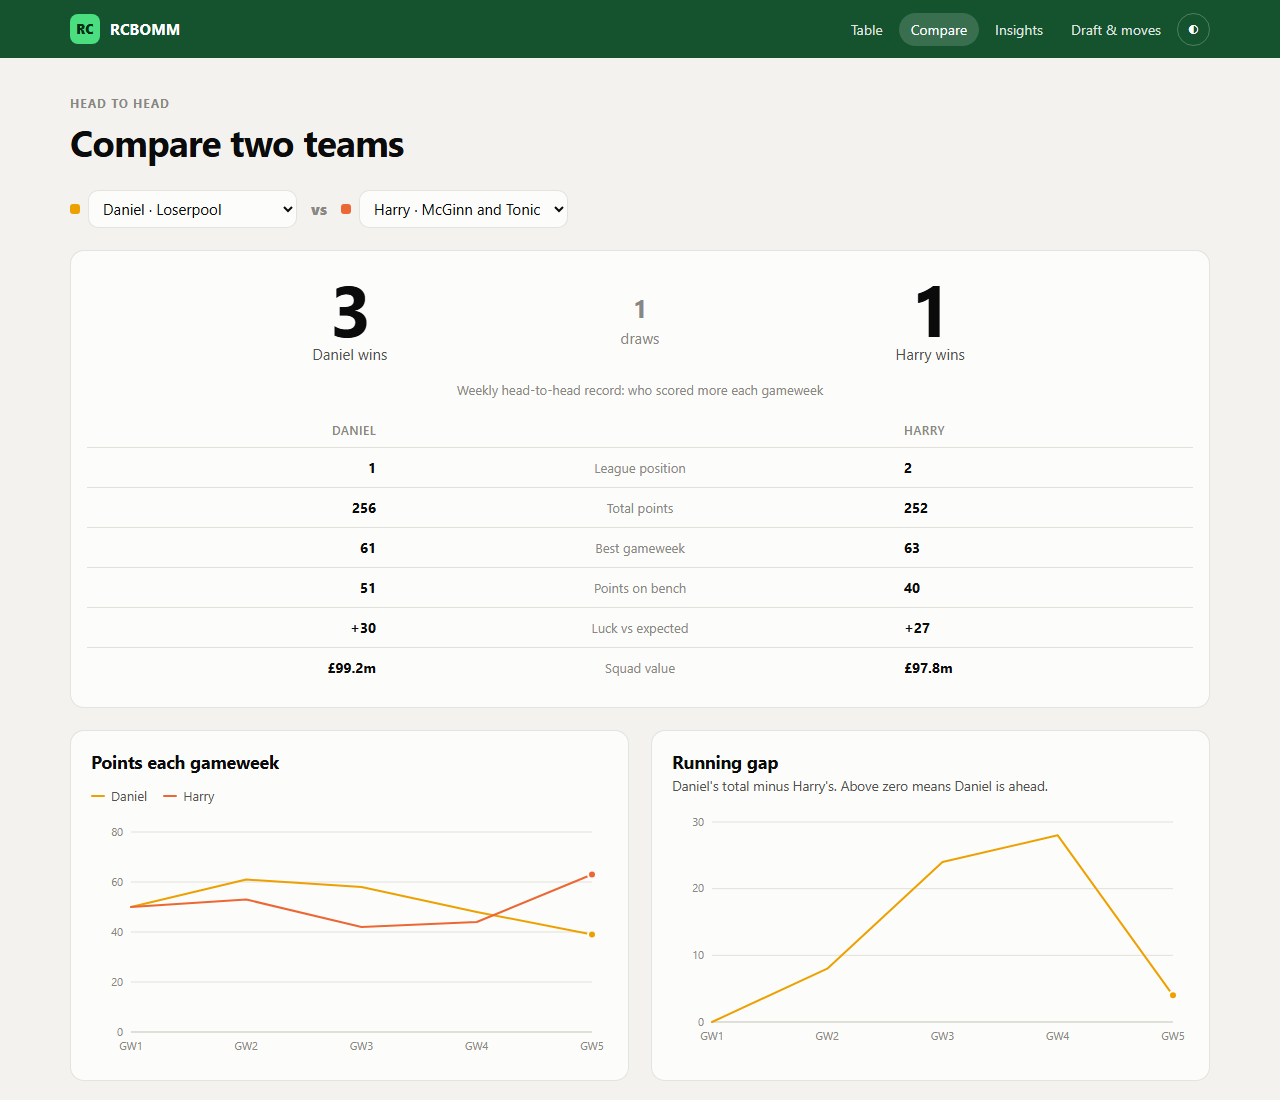
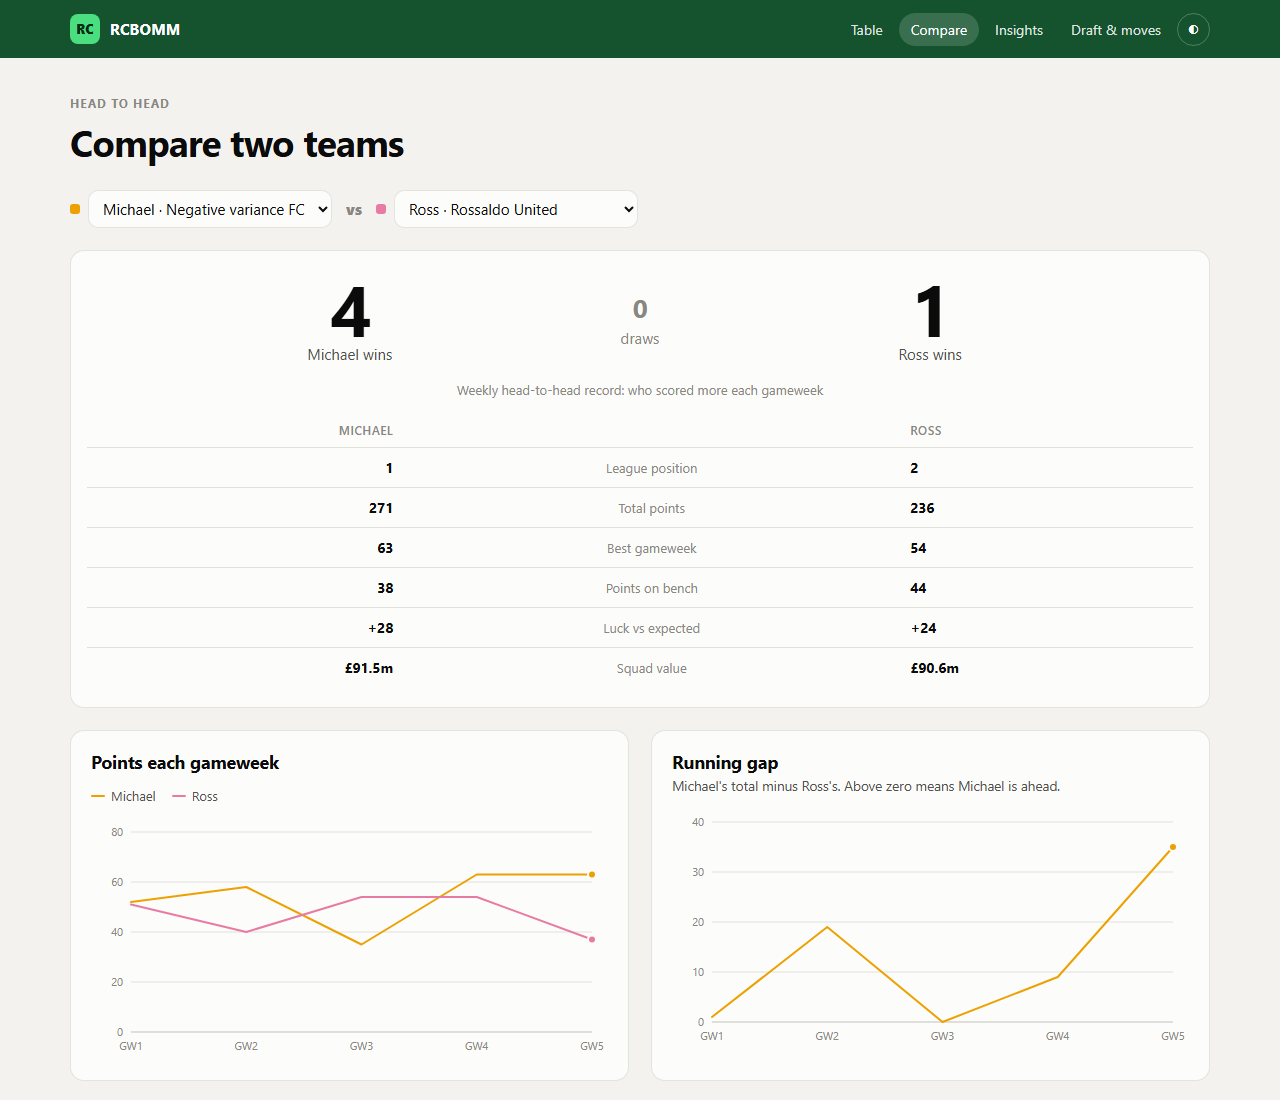
Point at RCBOMM (league 5443); support multiple drafts per season
The API only returns the current draft's picks, so drafts are archived to
data/drafts/ when seen, and a draft we missed is rebuilt from its first
gameweek's squads (no pick order). Points-for-team is scoped per draft.

diff --git a/app/draft/page.tsx b/app/draft/page.tsx
@@ -1,23 +1,16 @@
 import type { Metadata } from "next";
 import BarList from "@/components/charts/BarList";
 import { Card, ManagerChip, Signed, Tile } from "@/components/ui";
-import { colorOf, draft, manager, managers, player, trades, transactions } from "@/lib/data";
+import {
+  type DraftPick, type Pos, colorOf, draft, manager, managers, meta, player, standings, trades, transactions,
+} from "@/lib/data";
 
 export const metadata: Metadata = { title: "Draft & moves" };
 
+const POS_SLOTS: [Pos, number][] = [["GKP", 2], ["DEF", 5], ["MID", 5], ["FWD", 3]];
+const longDate = (s: string) => new Date(s).toLocaleDateString("en-GB", { day: "numeric", month: "long", year: "numeric" });
+
 export default function DraftPage() {
-  // draft board: columns in round-1 pick order, rows = rounds
-  const order = draft.filter((d) => d.round === 1).sort((a, b) => a.pick - b.pick).map((d) => d.m);
-  const rounds = [...new Set(draft.map((d) => d.round))].sort((a, b) => a - b);
-  const cell = (m: number, r: number) => draft.find((d) => d.m === m && d.round === r);
-  const maxFor = Math.max(1, ...draft.map((d) => d.for_team));
-
-  const draftTotals = managers
-    .map((m) => ({ id: m.id, pts: draft.filter((d) => d.m === m.id).reduce((s, d) => s + d.for_team, 0) }))
-    .sort((a, b) => b.pts - a.pts);
-  const steals = draft.filter((d) => d.round >= 6).sort((a, b) => b.for_team - a.for_team).slice(0, 5);
-  const busts = draft.filter((d) => d.round <= 3).sort((a, b) => a.for_team - b.for_team).slice(0, 5);
-
   const moves = transactions.map((t) => ({ ...t, net: t.in_pts - t.out_pts }));
   const best = [...moves].sort((a, b) => b.net - a.net)[0];
   const worst = [...moves].sort((a, b) => a.net - b.net)[0];
@@ -32,51 +25,12 @@ export default function DraftPage() {
         <h1>Who drafted well, and who worked the wire</h1>
       </section>
 
-      <Card title="Draft board" sub="Each cell shows the pick and the points they've scored for the team that drafted them. Darker means more.">
-        <div className="table-scroll">
-          <table className="heat">
-            <thead>
-              <tr><th className="r">Rd</th>{order.map((m) => <th key={m}><ManagerChip id={m} team={false} /></th>)}</tr>
-            </thead>
-            <tbody>
-              {rounds.map((r) => (
-                <tr key={r}>
-                  <td className="r muted">{r}</td>
-                  {order.map((m) => {
-                    const d = cell(m, r);
-                    if (!d) return <td key={m} />;
-                    const p = player(d.el);
-                    const t = d.for_team / maxFor;
-                    return (
-                      <td
-                        key={m}
-                        className={`cell${t > 0.55 ? " hot" : ""}`}
-                        style={{ background: `color-mix(in oklab, var(--seq) ${Math.round(6 + t * 84)}%, var(--surface))`, textAlign: "left", minWidth: 120 }}
-                        title={`Pick ${d.pick}: ${p.full}. ${d.for_team} for team, ${d.season} season`}
-                      >
-                        <div style={{ fontWeight: 600, whiteSpace: "nowrap" }}>{p.name}</div>
-                        <div style={{ fontSize: 11.5, opacity: 0.8 }}>{p.pos} · {d.for_team} pts</div>
-                      </td>
-                    );
-                  })}
-                </tr>
-              ))}
-            </tbody>
-          </table>
-        </div>
-      </Card>
-
-      <div className="grid-3">
-        <Card title="Draft haul" sub="Points from drafted players while on the drafting team.">
-          <BarList swatches rows={draftTotals.map((d) => ({ id: d.id, label: manager(d.id).first, color: colorOf(d.id), value: d.pts }))} />
-        </Card>
-        <Card title="Steals" sub="The best picks from round 6 onwards.">
-          <PickTable rows={steals} />
-        </Card>
-        <Card title="Busts" sub="The weakest returns from rounds 1 to 3.">
-          <PickTable rows={busts} />
-        </Card>
-      </div>
+      {meta.drafts.map((d) => <DraftSection key={d.id} id={d.id} />)}
+      {meta.upcoming_drafts.map((d) => (
+        <p key={d.id} className="muted">
+          Next draft: GW{d.gw}, {longDate(d.date)}. It will appear here, with full pick order, once it&apos;s done.
+        </p>
+      ))}
 
       <div className="tiles">
         <Tile label="Moves made" value={moves.length} sub="Accepted waivers and free-agent pickups" />
@@ -137,7 +91,93 @@ export default function DraftPage() {
   );
 }
 
-function PickTable({ rows }: { rows: typeof draft }) {
+function DraftSection({ id }: { id: number }) {
+  const info = meta.drafts.find((d) => d.id === id)!;
+  const picks = draft.filter((d) => d.draft === id);
+  const maxFor = Math.max(1, ...picks.map((d) => d.for_team));
+  const title = meta.drafts.length > 1 ? `Draft ${meta.drafts.indexOf(info) + 1} · GW${info.gw}` : "Draft board";
+
+  // ordered drafts: rows are rounds, columns in round-1 pick order.
+  // reconstructed drafts (pick order unavailable): rows are squad slots by position, best first.
+  let cols: number[];
+  let rows: { key: string; head: string; cells: (DraftPick | undefined)[] }[];
+  if (info.ordered) {
+    cols = picks.filter((d) => d.round === 1).sort((a, b) => (a.pick ?? 0) - (b.pick ?? 0)).map((d) => d.m);
+    const rounds = [...new Set(picks.map((d) => d.round ?? 0))].sort((a, b) => a - b);
+    rows = rounds.map((r) => ({ key: `r${r}`, head: String(r), cells: cols.map((m) => picks.find((d) => d.m === m && d.round === r)) }));
+  } else {
+    cols = standings.map((s) => s.m);
+    const byPos = (m: number, pos: Pos) =>
+      picks.filter((d) => d.m === m && player(d.el).pos === pos).sort((a, b) => b.for_team - a.for_team);
+    rows = POS_SLOTS.flatMap(([pos, n]) =>
+      Array.from({ length: n }, (_, i) => ({ key: `${pos}${i}`, head: i === 0 ? pos : "", cells: cols.map((m) => byPos(m, pos)[i]) })));
+  }
+
+  const haul = managers
+    .map((m) => ({ id: m.id, pts: picks.filter((d) => d.m === m.id).reduce((s, d) => s + d.for_team, 0) }))
+    .sort((a, b) => b.pts - a.pts);
+  const byFor = [...picks].sort((a, b) => b.for_team - a.for_team || b.season - a.season);
+  const good = info.ordered ? byFor.filter((d) => (d.round ?? 0) >= 6).slice(0, 5) : byFor.slice(0, 5);
+  const bad = info.ordered
+    ? picks.filter((d) => (d.round ?? 99) <= 3).sort((a, b) => a.for_team - b.for_team).slice(0, 5)
+    : [...byFor].reverse().filter((d) => player(d.el).pos !== "GKP").slice(0, 5);
+
+  return (
+    <>
+      <Card
+        title={title}
+        sub={info.ordered
+          ? `Drafted ${longDate(info.date)}. Each cell shows the pick and the points they've scored for the team that drafted them. Darker means more.`
+          : `Drafted ${longDate(info.date)}. The draft API doesn't keep pick order once a draft is over, so each squad is shown by position, best first. Darker means more points for the team that drafted them.`}
+      >
+        <div className="table-scroll">
+          <table className="heat">
+            <thead>
+              <tr><th className="r">{info.ordered ? "Rd" : ""}</th>{cols.map((m) => <th key={m}><ManagerChip id={m} team={false} /></th>)}</tr>
+            </thead>
+            <tbody>
+              {rows.map((r) => (
+                <tr key={r.key}>
+                  <td className="r muted" style={{ fontSize: 12 }}>{r.head}</td>
+                  {r.cells.map((d, j) => {
+                    if (!d) return <td key={j} />;
+                    const p = player(d.el);
+                    const t = d.for_team / maxFor;
+                    return (
+                      <td
+                        key={j}
+                        className={`cell${t > 0.55 ? " hot" : ""}`}
+                        style={{ background: `color-mix(in oklab, var(--seq) ${Math.round(6 + t * 84)}%, var(--surface))`, textAlign: "left", minWidth: 116 }}
+                        title={`${d.pick ? `Pick ${d.pick}: ` : ""}${p.full}. ${d.for_team} for team, ${d.season} season`}
+                      >
+                        <div style={{ fontWeight: 600, whiteSpace: "nowrap" }}>{p.name}</div>
+                        <div style={{ fontSize: 11.5, opacity: 0.8 }}>{info.ordered ? p.pos : p.club} · {d.for_team} pts</div>
+                      </td>
+                    );
+                  })}
+                </tr>
+              ))}
+            </tbody>
+          </table>
+        </div>
+      </Card>
+
+      <div className="grid-3">
+        <Card title="Draft haul" sub="Points from drafted players while on the drafting team.">
+          <BarList swatches rows={haul.map((d) => ({ id: d.id, label: manager(d.id).first, color: colorOf(d.id), value: d.pts }))} />
+        </Card>
+        <Card title={info.ordered ? "Steals" : "Best picks"} sub={info.ordered ? "The best picks from round 6 onwards." : "Most points delivered to the team that drafted them."}>
+          <PickTable rows={good} />
+        </Card>
+        <Card title={info.ordered ? "Busts" : "Duds"} sub={info.ordered ? "The weakest returns from rounds 1 to 3." : "Outfield picks that have delivered the least."}>
+          <PickTable rows={bad} />
+        </Card>
+      </div>
+    </>
+  );
+}
+
+function PickTable({ rows }: { rows: DraftPick[] }) {
   return (
     <div className="table-scroll">
       <table>
@@ -145,8 +185,8 @@ function PickTable({ rows }: { rows: typeof draft }) {
           {rows.map((d) => {
             const p = player(d.el);
             return (
-              <tr key={d.pick}>
-                <td className="muted r">R{d.round}</td>
+              <tr key={`${d.m}-${d.el}`}>
+                <td className="muted r">{d.round ? `R${d.round}` : p.pos}</td>
                 <td>{p.name}<div className="muted" style={{ fontSize: 12 }}>{manager(d.m)?.first}</div></td>
                 <td className="r"><strong>{d.for_team}</strong></td>
               </tr>

diff --git a/lib/data.ts b/lib/data.ts
@@ -16,7 +16,10 @@ export interface Player {
   pts: number; form: number; mins: number; xg: number; xa: number;
   status: string; news: string; owner: number | null; gw?: Record<string, number>;
 }
-export interface DraftPick { m: number; round: number; pick: number; el: number; for_team: number; season: number; auto: boolean }
+export interface DraftPick {
+  draft: number; gw: number; m: number; round: number | null; pick: number | null; el: number;
+  for_team: number; season: number; auto: boolean;
+}
 export interface Transaction {
   m: number; gw: number; kind: string; in: number; out: number;
   in_pts: number; out_pts: number; in_counted: number; date: string;
@@ -29,7 +32,9 @@ export interface Trade {
 interface LeagueData {
   meta: {
     league_id: number; name: string; updated: string; current_gw: number;
-    current_gw_finished: boolean; gws: number[]; draft_date: string | null;
+    current_gw_finished: boolean; gws: number[];
+    drafts: { id: number; gw: number; date: string; ordered: boolean }[];
+    upcoming_drafts: { id: number; gw: number; date: string }[];
   };
   managers: Manager[];
   standings: Standing[];
@@ -166,7 +171,15 @@ export function headToHead(a: number, b: number) {
   return { aw, bw, d };
 }
 
-export const draftFor = (id: number) => data.draft.filter((d) => d.m === id).sort((a, b) => a.round - b.round);
+const POS_ORDER: Record<Pos, number> = { GKP: 0, DEF: 1, MID: 2, FWD: 3 };
+/** A manager's picks from the most recent completed draft: round order, or by position when order is unknown. */
+export function draftFor(id: number) {
+  const latest = meta.drafts[meta.drafts.length - 1]?.id;
+  return data.draft
+    .filter((d) => d.m === id && d.draft === latest)
+    .sort((a, b) => (a.round ?? 0) - (b.round ?? 0)
+      || POS_ORDER[player(a.el).pos] - POS_ORDER[player(b.el).pos] || b.for_team - a.for_team);
+}
 export const transactionsFor = (id: number) => data.transactions.filter((t) => t.m === id);
 export const transactions = data.transactions;
 export const trades = data.trades;

diff --git a/app/managers/[id]/page.tsx b/app/managers/[id]/page.tsx
@@ -92,14 +92,14 @@ export default async function ManagerPage({ params }: PageProps<"/managers/[id]"
         <Card title="Draft picks" sub="Points scored for this team, compared with the player's season total.">
           <div className="table-scroll">
             <table>
-              <thead><tr><th className="r">Rd</th><th>Player</th><th className="r">For team</th><th className="r">Season</th></tr></thead>
+              <thead><tr><th className="r">{picks[0]?.round ? "Rd" : "Pos"}</th><th>Player</th><th className="r">For team</th><th className="r">Season</th></tr></thead>
               <tbody>
                 {picks.map((d) => {
                   const p = player(d.el);
                   return (
-                    <tr key={d.pick}>
-                      <td className="r muted">{d.round}</td>
-                      <td>{p.name} <span className="muted" style={{ fontSize: 12 }}>{p.pos}</span>{p.owner !== id && <span className="pill" style={{ marginLeft: 6 }}>gone</span>}</td>
+                    <tr key={d.el}>
+                      <td className="r muted">{d.round ?? p.pos}</td>
+                      <td>{p.name} {d.round && <span className="muted" style={{ fontSize: 12 }}>{p.pos}</span>}{p.owner !== id && <span className="pill" style={{ marginLeft: 6 }}>gone</span>}</td>
                       <td className="r"><strong>{d.for_team}</strong></td>
                       <td className="r muted">{d.season}</td>
                     </tr>

diff --git a/app/layout.tsx b/app/layout.tsx
@@ -5,7 +5,7 @@ import { meta } from "@/lib/data";
 import "./globals.css";
 
 export const metadata: Metadata = {
-  title: { default: `${meta.name} · RCBOMM`, template: `%s · RCBOMM` },
+  title: { default: `${meta.name} · Draft league hub`, template: `%s · ${meta.name}` },
   description: `League table, head-to-heads and stats for the ${meta.name} Premier League Draft league.`,
 };
 

diff --git a/pipeline/fetch.py b/pipeline/fetch.py
@@ -18,12 +18,13 @@ from pathlib import Path
 
 import requests
 
-LEAGUE_ID = int(os.environ.get("LEAGUE_ID", "23779"))
+LEAGUE_ID = int(os.environ.get("LEAGUE_ID", "5443"))
 DRAFT = "https://draft.premierleague.com/api/"
 CLASSIC = "https://fantasy.premierleague.com/api/"
 ROOT = Path(__file__).resolve().parents[1]
 OUT = ROOT / "data" / "league.json"
 VALUE_HISTORY = ROOT / "data" / "value_history.json"
+DRAFTS_DIR = ROOT / "data" / "drafts"
 
 POS = {1: "GKP", 2: "DEF", 3: "MID", 4: "FWD"}
 
@@ -219,19 +220,41 @@ def main() -> None:
         "total": s["total"], "gw": s["event_total"],
     } for s in details.get("standings", [])]
 
-    # --- draft ------------------------------------------------------------------------
-    counted_pts = defaultdict(int)  # (manager, element) -> points that counted for them
-    for p in picks:
-        if p["xi"]:
-            counted_pts[(p["m"], p["el"])] += p["pts"]
+    # --- drafts ------------------------------------------------------------------------
+    # A league can hold several drafts a season (e.g. a January re-draft), but the API only ever
+    # returns the *current* draft's choices. So every draft we see is archived to data/drafts/ and
+    # a draft we never saw is rebuilt from squads at its first gameweek (no round/pick order then).
+    DRAFTS_DIR.mkdir(parents=True, exist_ok=True)
+    live_choices = [c for c in get(DRAFT + f"draft/{LEAGUE_ID}/choices")["choices"] if c.get("element")]
+    if live_choices:
+        did = live_choices[0]["draft"]
+        (DRAFTS_DIR / f"{did}.json").write_text(json.dumps(live_choices, indent=1), encoding="utf-8")
 
-    choices = get(DRAFT + f"draft/{LEAGUE_ID}/choices")["choices"]
-    draft = [{
-        "m": by_entry.get(c["entry"]), "round": c["round"], "pick": c["pick"], "el": c["element"],
-        "for_team": counted_pts[(by_entry.get(c["entry"]), c["element"])],
-        "season": players.get(c["element"], {}).get("pts", 0),
-        "auto": c["was_auto"],
-    } for c in choices if c["element"]]
+    done = sorted((d for d in league.get("drafts", []) if d.get("draft_completed")), key=lambda d: d["event"])
+    draft = []
+    for i, d in enumerate(done):
+        start_gw = d["event"]
+        end_gw = done[i + 1]["event"] if i + 1 < len(done) else 99
+        window = lambda p: start_gw <= p["gw"] < end_gw  # noqa: E731
+        counted = defaultdict(int)
+        for p in picks:
+            if p["xi"] and window(p):
+                counted[(p["m"], p["el"])] += p["pts"]
+        archived = DRAFTS_DIR / f"{d['id']}.json"
+        if archived.exists():
+            rows = [{"m": by_entry.get(c["entry"]), "round": c["round"], "pick": c["pick"], "el": c["element"],
+                     "auto": c["was_auto"]} for c in json.loads(archived.read_text(encoding="utf-8"))]
+        else:
+            rows = [{"m": p["m"], "round": None, "pick": None, "el": p["el"], "auto": False}
+                    for p in picks if p["gw"] == start_gw]
+        for r in rows:
+            r.update(draft=d["id"], gw=start_gw, for_team=counted[(r["m"], r["el"])],
+                     season=players.get(r["el"], {}).get("pts", 0))
+        draft += rows
+    drafts_meta = [{"id": d["id"], "gw": d["event"], "date": d["draft_completed"],
+                    "ordered": (DRAFTS_DIR / f"{d['id']}.json").exists()} for d in done]
+    upcoming = [{"id": d["id"], "gw": d["event"], "date": d["draft_dt"]}
+                for d in league.get("drafts", []) if not d.get("draft_completed")]
 
     # --- transactions (waivers / free agents) & trades ------------------------------
     def pts_from(eid: int, gw: int) -> int:
@@ -301,7 +324,8 @@ def main() -> None:
             "current_gw": current,
             "current_gw_finished": game["current_event_finished"],
             "gws": gws,
-            "draft_date": league.get("draft_dt"),
+            "drafts": drafts_meta,
+            "upcoming_drafts": upcoming,
         },
         "managers": managers,
         "standings": standings,
